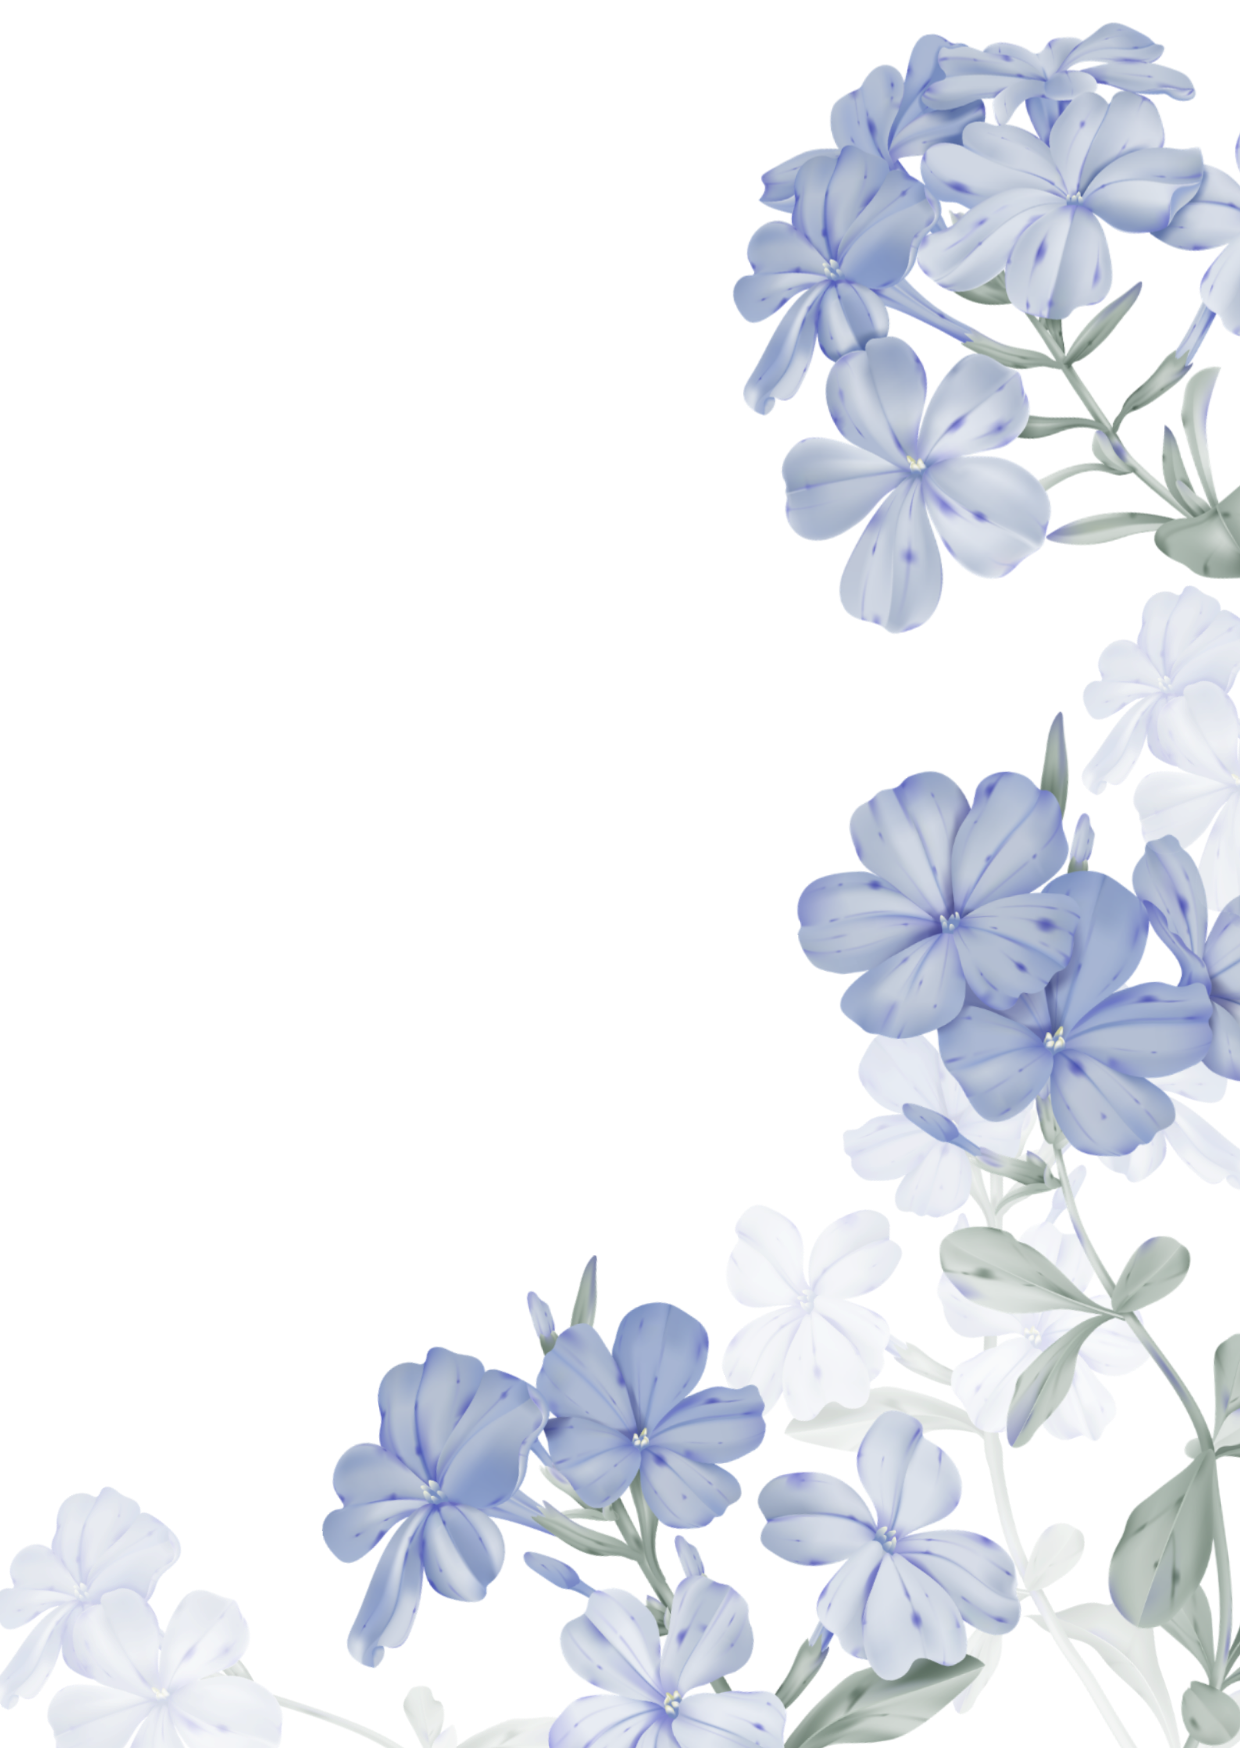
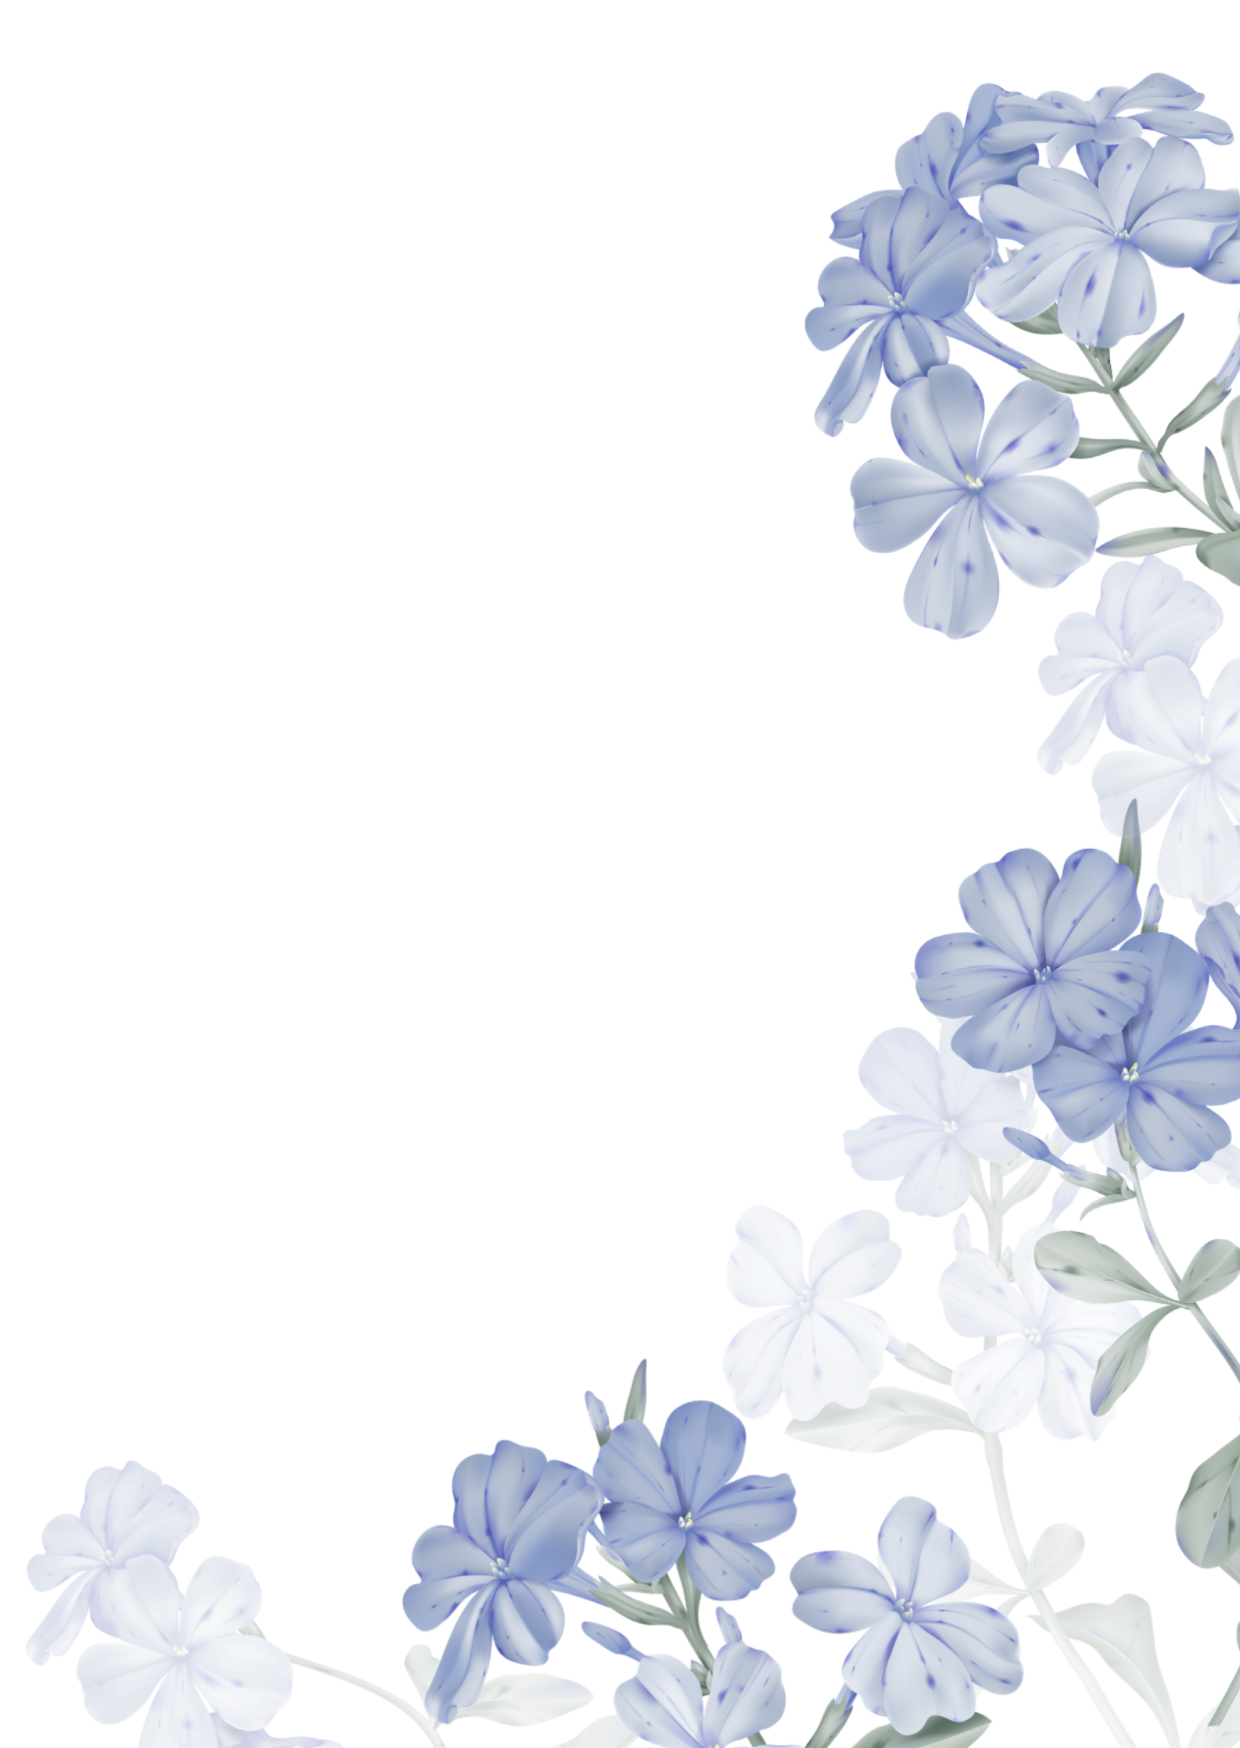
Add files via upload

diff --git a/style.css b/style.css
@@ -47,7 +47,7 @@ body {
 }
 
 body {
-  font-family: var(--font-body);
+  font-family: var(--font-poem);
   background: var(--cream);
   color: var(--ink);
   -webkit-font-smoothing: antialiased;
@@ -168,6 +168,7 @@ a {
   max-width: 100%;
   overflow: hidden;
   margin-top: 4cqi;
+  padding-bottom: 0.25em;
 }
 
 .name {
@@ -183,8 +184,8 @@ a {
 }
 
 .name--and {
-  font-size: clamp(11px, 5vw, 22px);
-  font-size: clamp(11px, 5cqi, 22px);
+  font-size: clamp(9px, 4vw, 18px);
+  font-size: clamp(9px, 5cqi, 18px);
   /* color: #000000; */
   color: var(--leaf-green);
   padding: 0 0.05em;
@@ -200,16 +201,16 @@ a {
 }
 
 .invite-text {
-  font-family: var(--font-body);
-  font-size: clamp(11.5px, 3.2vw, 15px);
-  font-size: clamp(11.5px, 3.2cqi, 15px);
+  font-family: var(--font-poem);
+  font-size: clamp(9px, 3.2vw, 15px);
+  font-size: clamp(9px, 3.2cqi, 15px);
   line-height: 1.75;
   color: var(--accent-deep);
 }
 
 .family-names-block {
-  padding-inline-start: 40cqi;
-  padding-inline-start: 82%;
+  padding-inline-start: 20cqi;
+  padding-inline-start: 80%;
 }
 
 .family-names {
@@ -228,11 +229,12 @@ a {
   margin-right: auto; /* physically shift the block to the left, clear of the florals on the right */
   background: rgba(255, 253, 250, 0.92);
   border: 1px solid rgba(255, 255, 255, 0.95);
+  margin-left: 10cqi;
   border-radius: 11px;
   backdrop-filter: blur(8px);
   -webkit-backdrop-filter: blur(8px);
   box-shadow: 0 6px 14px -12px hsla(var(--shadow-color), 0.4);
-  padding: 0.4em 0.1em;
+  padding: 0.4em 0.08em;
 }
 
 .schedule__col {
@@ -240,8 +242,8 @@ a {
   flex-direction: column;
   align-items: center;
   justify-content: center;
-  gap: 0.2em;
-  padding: 0 0.55em;
+  gap: 0.1em;
+  padding: 0 0.3em;
   min-width: 0;
 }
 
@@ -250,7 +252,7 @@ a {
 }
 
 .schedule__col--details {
-  gap: 0.34em;
+  gap: 0.3em;
 }
 
 .schedule__detail {
@@ -265,15 +267,17 @@ a {
   font-size: clamp(10px, 3.1vw, 13px);
   font-size: clamp(10px, 3.1cqi, 13px);
   color: var(--accent-deep);
+  line-height: 2.3;
 }
 
 .schedule__time {
-  font-family: var(--font-body);
+  font-family: var(--font-poem);
   font-size: clamp(10px, 2.3vw, 12px);
   font-size: clamp(10px, 2.3cqi, 12px);
   color: var(--accent-deep);
   letter-spacing: 0.02em;
   direction: ltr;
+  line-height: 2.3;
 }
 
 .schedule__day {
@@ -281,23 +285,25 @@ a {
   font-size: clamp(10px, 3.1vw, 13px);
   font-size: clamp(10px, 3.1cqi, 13px);
   color: var(--accent-deep);
+  line-height: 2.3;
 }
 
 .schedule__daymonth {
-  font-family: var(--font-body);
+  font-family: var(--font-poem);
   font-size: clamp(8px, 3.1vw, 10px);
   font-size: clamp(8px, 3.1cqi, 10px);
   color: var(--accent-deep);
   letter-spacing: 0.02em;
+  line-height: 2.3;
 }
 
 .schedule__year {
-  font-family: var(--font-body);
-  font-weight: 700;
+  font-family: var(--font-poem);
   font-size: clamp(8px, 3.2vw, 10px);
   font-size: clamp(8px, 3.1vw, 10px);
   color: var(--accent-deep);
   direction: ltr;
+  line-height: 2.3;
 }
 
 /* ============================================================
@@ -387,14 +393,14 @@ a {
 }
 
 .location-btn__text strong {
-  font-size: clamp(10.5px, 2.9vw, 13px);
-  font-weight: 700;
-  color: var(--ink);
+  font-size: clamp(9px, 2.5vw, 10px);
+  font-weight: 300;
+  color: var(--accent-deep);
 }
 
 .location-btn__text small {
-  font-size: clamp(8.5px, 2.3vw, 10.5px);
-  color: var(--ink-soft);
+  font-size: clamp(7px, 2vw, 9px);
+  color: var(--accent-deep);
 }
 
 .location-btn__arrow {
@@ -510,7 +516,7 @@ a {
 }
 
 .envelope-hint {
-  font-family: var(--font-body);
+  font-family: var(--font-poem);
   font-size: clamp(12px, 3.2vw, 15px);
   color: var(--accent-deep);
   letter-spacing: 0.02em;
@@ -722,36 +728,36 @@ a {
 
 .is-loaded .invitation__frame {
   animation: frameGrow 1.8s cubic-bezier(0.25, 1, 0.5, 1) forwards;
-  animation-delay: 0.3s;
+  animation-delay: 0.2s;
 }
 
 .is-loaded .reveal[data-reveal="1"] {
   animation: revealUp 1.15s cubic-bezier(0.25, 1, 0.5, 1) forwards;
-  animation-delay: 2s;
+  animation-delay: 1.5s;
 }
 
 .is-loaded .reveal[data-reveal="2"] {
   animation: revealUp 1.1s cubic-bezier(0.25, 1, 0.5, 1) forwards;
-  animation-delay: 2.7s;
+  animation-delay: 2.5s;
 }
 
 .is-loaded .reveal[data-reveal="3"] {
   animation: revealUp 1.1s cubic-bezier(0.25, 1, 0.5, 1) forwards;
-  animation-delay: 3.4s;
+  animation-delay: 3.7s;
 }
 
 .is-loaded .reveal[data-reveal="4"] {
   animation: revealUp 1.1s cubic-bezier(0.25, 1, 0.5, 1) forwards;
-  animation-delay: 4.1s;
+  animation-delay: 4.5s;
 }
 
 .is-loaded .reveal[data-reveal="5"] {
   animation: revealUp 1.15s cubic-bezier(0.25, 1, 0.5, 1) forwards;
-  animation-delay: 4.8s;
+  animation-delay: 5.1s;
 }
 
 .location-btn__ring {
-  animation-delay: 6.1s;
+  animation-delay: 6.5s;
 }
 
 @media (prefers-reduced-motion: reduce) {

diff --git a/index.html b/index.html
@@ -42,7 +42,7 @@
     <div class="envelope__pocket"></div>
     <div class="envelope__flap"></div>
     <div class="envelope__seal">
-      <span>ه</span><span class="envelope__seal-amp">&amp;</span><span>ا</span>
+      <span></span><span class="envelope__seal-amp"></span><span></span>
     </div>
   </div>
   <p class="envelope-hint" aria-hidden="true">برای گشودن دعوتنامه ضربه بزنید</p>
@@ -69,7 +69,7 @@
       </header>
 
       <section class="body-block reveal" data-reveal="3">
-        <p class="invite-text">با حضور پرمهرتان در آغاز زندگی مشترک عزیزانمان شادیبخش محفل ما باشید.
+        <p class="invite-text">با حضور پرمهرتان شادیبخش محفل ما باشید.
         </p>
       </section>
       
@@ -88,7 +88,7 @@
       <span class="schedule__time">۱۷ - ۱۹</span>
     </div>
     <div class="schedule__detail">
-      <span class="schedule__label">شام</span>
+      <span class="schedule__label">ضیافت</span>
       <span class="schedule__time">۱۹ - ۲۳</span>
     </div>
   </div>
@@ -116,7 +116,7 @@
             </svg>
           </span>
           <span class="location-btn__text">
-            <strong>مکان برگزاری مراسم</strong>
+            <strong>مکان برگزاری مراسم-هتل گران میراث رشیدیه تهران</strong>
             <small>برای مسیریابی ضربه بزنید</small>
           </span>
           <span class="location-btn__arrow" aria-hidden="true">